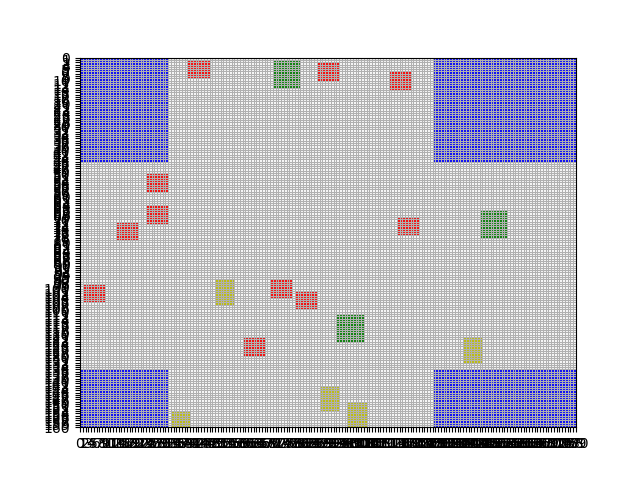
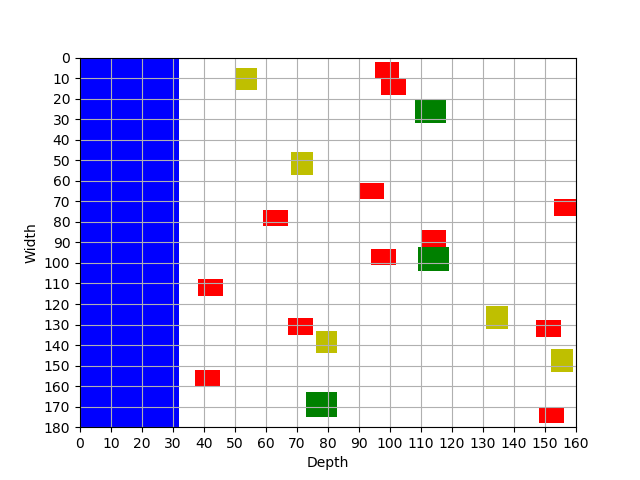
adjusted vis + randomize logic

diff --git a/code/visualization/visualize.py b/code/visualization/visualize.py
@@ -9,60 +9,45 @@ def visualize(grid):
     """
 
     # Create diagram representing a map of the Amstelhaege
-    plt.axis([0, grid.width, grid.depth, 0]) 
-    plt.xticks(np.arange(0, grid.width + 1, 1))
-    plt.yticks(np.arange(0, grid.depth + 1, 1)) 
+    plt.axis([0, grid.depth, grid.width, 0]) 
+    plt.xticks(np.arange(0, grid.depth + 1, 10))
+    plt.yticks(np.arange(0, grid.width + 1, 10)) 
+    plt.xlabel("Depth")
+    plt.ylabel("Width")
     # how start from bottom left corner from https://stackoverflow.com/questions/44395838/how-to-make-0-0-on-matplotlib-graph-on-the-bottom-left-corner
-    plt.xlim([0, grid.width])
-    plt.ylim([grid.depth, 0])
+    plt.xlim([0, grid.depth])
+    plt.ylim([grid.width, 0])
     plt.grid(True)
 
     # Load water coordinates from correct map
     water = grid.load_water(grid.map)
     print(f" Water: {water}")
 
-    # # how to loop through nested dict from https://www.learnbyexample.org/python-nested-dictionary/#:~:text=Access%20Nested%20Dictionary%20Items,key%20in%20multiple%20square%20brackets.&text=If%20you%20refer%20to%20a,dictionary%2C%20an%20exception%20is%20raised.&text=To%20avoid%20such%20exception%2C%20you,special%20dictionary%20get()%20method.
-    # # Add representation of water to diagram
-    # # for ident, coordinates in water.items():
-    # #     # how to draw rectangle in diagram from https://www.codespeedy.com/how-to-draw-shapes-in-matplotlib-with-python/
-    # #     bottom_x = int(water[ident].get('bottom_left_x'))
-    # #     bottom_y = int(water[ident].get('bottom_left_y'))
-    # #     top_x = int(water[ident].get('top_right_x'))
-    # #     top_y = int(water[ident].get('top_right_y'))
-
-    # #     water_vis = plt.Rectangle((bottom_x, bottom_y), top_x, top_y, fc="blue")
-    # #     plt.gca().add_patch(water_vis)
-
+    # how to loop through nested dict from https://www.learnbyexample.org/python-nested-dictionary/#:~:text=Access%20Nested%20Dictionary%20Items,key%20in%20multiple%20square%20brackets.&text=If%20you%20refer%20to%20a,dictionary%2C%20an%20exception%20is%20raised.&text=To%20avoid%20such%20exception%2C%20you,special%20dictionary%20get()%20method.
+    # Add representation of water to diagram
     for ident, coordinates in water.items():
+
         # how to draw rectangle in diagram from https://www.codespeedy.com/how-to-draw-shapes-in-matplotlib-with-python/
         
-        print(f"Ident: {ident}")
-        print(f"coordinates {coordinates}")
+        bottom_left =  water[ident].get('bottom_left')
+        top_right = water[ident].get('top_right')
 
-        top_left =  water[ident].get('top_left')
-        bottom_right = water[ident].get('bottom_right')
-
-        print(f"Top left {top_left}")
-        print(f"Bottom right {bottom_right}")
-
-        water_vis = plt.Rectangle(top_left, bottom_right[0], bottom_right[1], fc="blue")
+        water_vis = plt.Rectangle(bottom_left, int(top_right[0]), int(top_right[1]), fc="blue")
         plt.gca().add_patch(water_vis)
 
     # Load houses based on grid and add to diagram
-    print(grid.all_houses)
     for house in grid.all_houses.values():
 
-        width = house.coordinates['bottom_right'][0] - house.coordinates['bottom_left'][0]
-        height = house.coordinates['top_right'][1] - house.coordinates['bottom_right'][1]
+        rectangle_width = house.coordinates['bottom_right'][0] - house.coordinates['bottom_left'][0]
+        rectangle_height = house.coordinates['top_right'][1] - house.coordinates['bottom_right'][1]
 
         # Create rectangle for specific type 
-        print(house.type)
         if house.type == "single":
-            rectangle = plt.Rectangle(house.coordinates['bottom_left'], width, height, fc="r")
+            rectangle = plt.Rectangle(house.coordinates['bottom_left'], rectangle_width, rectangle_height, fc="r")
         elif house.type == "bungalow":
-            rectangle = plt.Rectangle(house.coordinates['bottom_left'], width, height, fc="y")
+            rectangle = plt.Rectangle(house.coordinates['bottom_left'], rectangle_width, rectangle_height, fc="y")
         else:
-            rectangle = plt.Rectangle(house.coordinates['bottom_left'], width, height, fc="g")
+            rectangle = plt.Rectangle(house.coordinates['bottom_left'], rectangle_width, rectangle_height, fc="g")
 
         plt.gca().add_patch(rectangle)
 

diff --git a/code/algorithms/randomize.py b/code/algorithms/randomize.py
@@ -28,7 +28,7 @@ def random_assignment_house(grid, house, random_cell):
 
 	print("Performing random_assignment_house")
 	
-	# Pick random empty cell
+	# Retrieve coordinates random starting cell (top-left)
 	random_cell_x = random_cell.x_coordinate
 	random_cell_y = random_cell.y_coordinate
 
@@ -40,31 +40,46 @@ def random_assignment_house(grid, house, random_cell):
 		'top_right': (random_cell_x + house.depth, random_cell_y)
 		}
 
-	# Set all grid cells of house to according house type
+	# Check for all cells of possible house location if occupied 
+	occupied = False
+
 	for row in range(random_cell_y, random_cell_y + house.width):
 		for column in range(random_cell_x, random_cell_x + house.depth):
-			# print(f"current cell: {grid.cells[row,column]}")
-			# grid.cells[row, column].type = house.type
 
 			current_cell = grid.cells[row, column]
 			
-			# Ensure every cell of house location is empty (not water or other house)
-			if current_cell.type == None:
+			if current_cell.type != None:
+				occupied = True
+
+	# If all cells of possible location are still availabe 
+	if occupied == False:
+
+		# Set cells to according house type
+		for row in range(random_cell_y, random_cell_y + house.width):
+			for column in range(random_cell_x, random_cell_x + house.depth):
+				current_cell = grid.cells[row, column]
 				current_cell.type = house.type
-			else:
-				raise ValueError("Location of house unavailable.")
 
-	all_info = [grid, house_coordinates]
+		# Save coordinates
+		house.coordinates = house_coordinates
 
-	return all_info
+	else:
+		occupied = False
+		raise ValueError("Location of house unavailable.")
+
+	# all_info = [grid, house_coordinates]
+
+	return grid
 
 def random_assignment(grid):
 	# print(f"grid: {grid}")
 	# print(f"houses in random: {houses}")
 
-	new_grid = copy.deepcopy(grid)
-	houses = new_grid.all_houses
+	# Copy empty grid 
+	copy_grid = copy.deepcopy(grid)
+	houses = copy_grid.all_houses
 	
+	# Try to place all houses on grid at valid location 
 	for house in houses.values():
 
 		print(f"HOUSE: {house}")
@@ -73,11 +88,8 @@ def random_assignment(grid):
 
 		while succes == False:
 			try:
-				random_cell = random_empty_cell(new_grid)
-				house_info = random_assignment_house(new_grid, house, random_cell)
-				second_grid = house_info[0]
-				house.coordinates = house_info[1]
-				print(f"House coordinates: {house.coordinates}")
+				random_cell = random_empty_cell(copy_grid)
+				new_grid = random_assignment_house(copy_grid, house, random_cell)
 				succes = True
 
 				print(f"Updated grid:")
@@ -86,4 +98,4 @@ def random_assignment(grid):
 				print("Error")
 				pass
 
-	return second_grid
+	return new_grid

diff --git a/code/classes/grid.py b/code/classes/grid.py
@@ -7,11 +7,10 @@ class Grid():
     def __init__(self, quantity, source_file):
         self.width = 180
         self.depth = 160
+        self.map = source_file
         self.cells = self.load_grid(self.width, self.depth)
         self.all_houses = self.load_houses(quantity)
-        self.all_water = self.load_water(source_file)
-        self.create_water()
-        self.map = source_file
+        self.create_water()      
 
     def load_grid(self, width, depth):
         """
@@ -89,10 +88,10 @@ class Grid():
                 strip_row = [item.strip("\"") for item in row]
 
                 # Save water coordinates in dict
-                water[strip_row[0]] = {'bottom_left': (int(strip_row[1]), int(strip_row[4])),
-                                    'bottom_right': (int(strip_row[3]), int(strip_row[4])),
-                                    'top_left': (int(strip_row[1]), int(strip_row[2])),
-                                    'top_right': (int(strip_row[3]), int(strip_row[2]))}
+                water[strip_row[0]] = {'top_left': (int(strip_row[1]), int(strip_row[4])),
+                                    'top_right': (int(strip_row[3]), int(strip_row[4])),
+                                    'bottom_left': (int(strip_row[1]), int(strip_row[2])),
+                                    'bottom_right': (int(strip_row[3]), int(strip_row[2]))}
 
         return water
 
@@ -104,16 +103,18 @@ class Grid():
 
         print("Creating water")
 
+        all_water = self.load_water(self.map)
+
         # Iterate over all water objects in dict
-        for water in self.all_water:
+        for water in all_water:
 
             # Define coordinates of water objects
-            for x in range(int(self.all_water[water]['top_left'][0]), int(self.all_water[water]['bottom_right'][0]) + 1):
-                for y in range(int(self.all_water[water]['top_left'][1]), int(self.all_water[water]['bottom_right'][1]) + 1):
+            for x in range(int(all_water[water]['bottom_left'][0]), int(all_water[water]['top_right'][0]) + 1):
+                for y in range(int(all_water[water]['bottom_left'][1]), int(all_water[water]['top_right'][1]) + 1):
 
                     # Transform cells into 'Water' type
                     self.cells[y][x].type = "Water"
-    
+
 
     def calculate_worth(self, houses):
         """

diff --git a/main.py b/main.py
@@ -5,7 +5,7 @@ from code.algorithms import randomize
 if __name__ == "__main__":
 
 	# Create grid
-    test_grid = grid.Grid(20, "data/wijken/wijk_2.csv")
+    test_grid = grid.Grid(20, "data/wijken/wijk_1.csv")
     test_grid.print_grid()
 
     # water = test_grid.load_water("data/wijken/wijk_2.csv")
